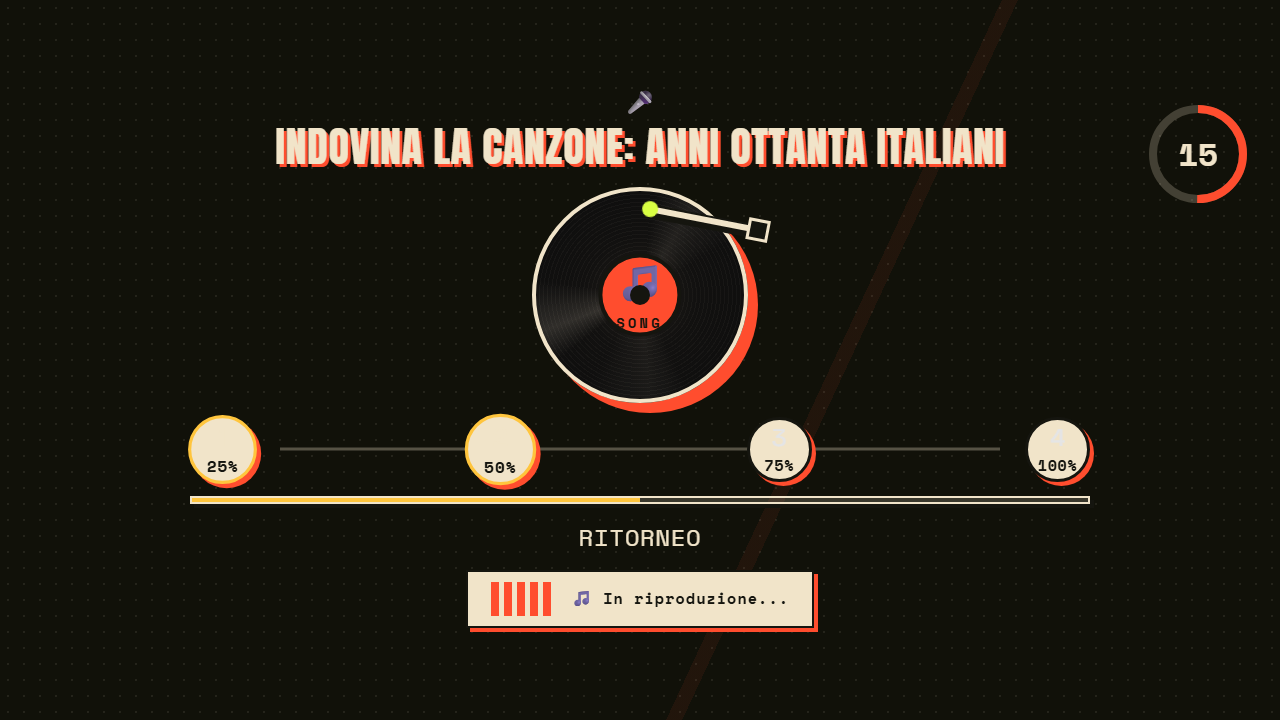
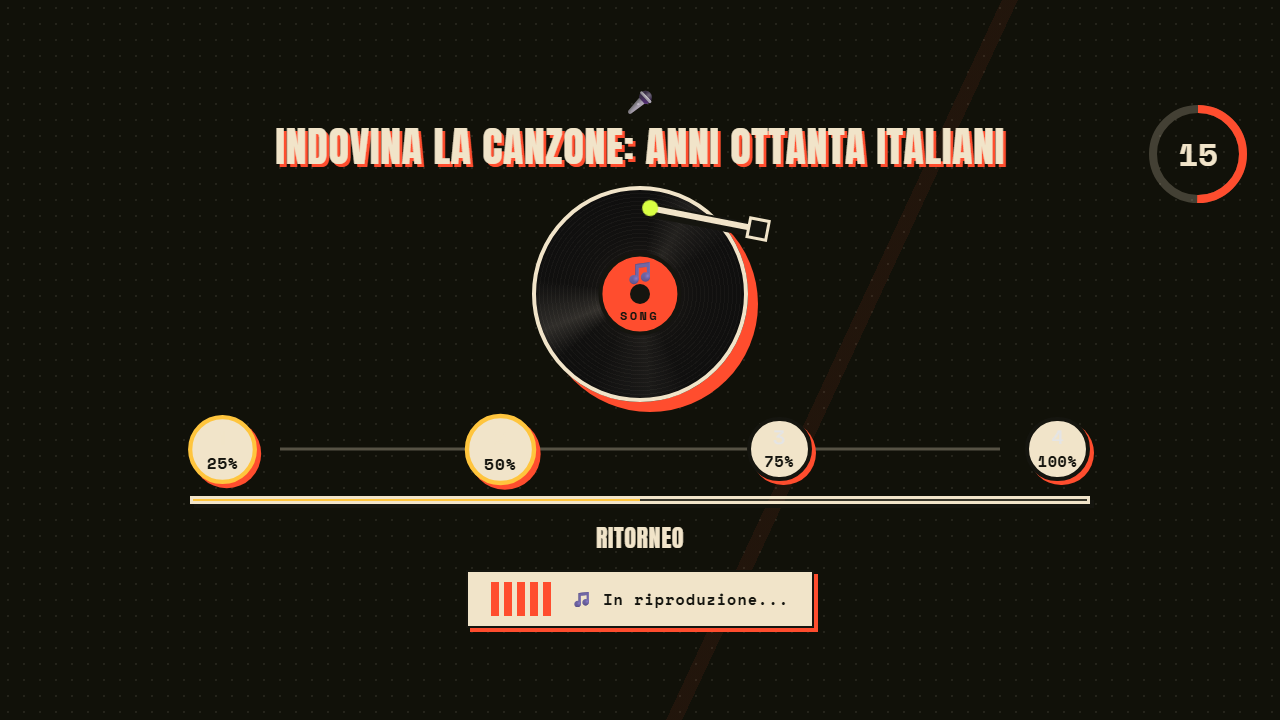
style(canzone): skin solo nel componente, avviso sul disco, etichetta libera dal perno
La skin app-song in styles.css duplicava ormai il componente: tolte le regole
(42 dichiarazioni, i ritocchi di misura e le animazioni d'ingresso), portando
nel componente le uniche parti ancora attive (contenitore alto auto con
min-height 100%, animazioni m-fade/m-drop/m-appear, misure di etichetta e
gettone, anello del timer al pomodoro). Confronto pixel a 1280x720 su play,
prenotazione, reveal e conto alla rovescia: identico, a meno delle due
correzioni volute qui sotto.
A 720p l'avviso di prenotazione si posiziona sul disco invece che sul titolo;
l'etichetta del vinile mette icona in alto e parola in basso, così il perno
centrale non copre più il testo.

🤖 Generated with Codebuff

diff --git a/apps/frontend/src/styles.css b/apps/frontend/src/styles.css
@@ -179,7 +179,6 @@ button:disabled {
 
 /* I titoli dei giochi seguono la voce poster anche nei componenti figli. */
 app-quiz h2,
-app-song h2,
 app-arena h2,
 app-timeline h2,
 app-price h2,
@@ -231,125 +230,6 @@ app-quiz .quiz-reveal .reveal-value {
   font-weight: 400;
   text-shadow: none;
   text-transform: uppercase;
-}
-
-app-song .song-container {
-  width: 100%;
-  height: auto !important;
-  min-height: 100%;
-  background: transparent !important;
-  color: var(--paper);
-}
-app-song .song-title {
-  color: var(--paper) !important;
-  font-family: var(--font-display);
-  font-weight: 400;
-  letter-spacing: 0.02em;
-  text-transform: uppercase;
-  text-shadow: 3px 3px 0 var(--tomato) !important;
-}
-app-song .music-icon { text-shadow: none; }
-app-song .vinyl-disc {
-  border: 4px solid var(--paper);
-  box-shadow: 10px 10px 0 var(--tomato), inset 0 0 80px rgba(255, 255, 255, 0.04) !important;
-}
-app-song .vinyl-label {
-  background: var(--tomato) !important;
-  box-shadow: none !important;
-}
-app-song .tonearm {
-  background: var(--paper) !important;
-  border: 2px solid var(--coal);
-  border-radius: 0 !important;
-}
-app-song .tonearm::before { background: var(--coal) !important; border-radius: 0 !important; }
-app-song .tonearm::after { background: var(--acid) !important; border-radius: 50% !important; }
-app-song .phases-track::before {
-  height: 3px !important;
-  background: color-mix(in srgb, var(--ink) 30%, transparent) !important;
-}
-app-song .phase-dot {
-  border: 3px solid var(--coal);
-  border-radius: 50% !important;
-  box-shadow: 4px 4px 0 var(--tomato) !important;
-}
-app-song .phase-icon { font-size: clamp(18px, 2vw, 28px); }
-app-song .phase-label {
-  color: var(--coal) !important;
-  font-family: var(--font-mono);
-  font-size: clamp(10px, 1.1vw, 15px);
-}
-app-song .progress-bar {
-  height: 8px !important;
-  background: color-mix(in srgb, var(--ink) 18%, transparent) !important;
-  border: 2px solid var(--paper);
-  border-radius: 0 !important;
-}
-app-song .progress-fill { border-radius: 0 !important; }
-app-song .current-phase-label {
-  color: var(--paper) !important;
-  font-family: var(--font-mono);
-  font-size: clamp(16px, 1.8vw, 24px);
-  text-shadow: none;
-}
-app-song .audio-status {
-  background: var(--paper) !important;
-  border: 2px solid var(--coal);
-  border-radius: 0 !important;
-  box-shadow: 4px 4px 0 var(--tomato);
-  backdrop-filter: none !important;
-}
-app-song .audio-status p {
-  color: var(--coal) !important;
-  font-family: var(--font-mono);
-  font-size: clamp(12px, 1.2vw, 18px);
-}
-app-song .eq-bar { background: var(--tomato) !important; }
-app-song .buzz-alert {
-  background: var(--tomato) !important;
-  border: 3px solid var(--paper);
-  border-radius: 0 !important;
-  box-shadow: 8px 8px 0 var(--coal) !important;
-}
-app-song .alert-name,
-app-song .alert-text {
-  color: var(--paper-hi) !important;
-  font-family: var(--font-mono);
-  font-size: clamp(14px, 1.5vw, 22px);
-}
-app-song .reveal-card {
-  background: var(--paper) !important;
-  color: var(--coal) !important;
-  border: 4px solid var(--coal) !important;
-  border-radius: 0 !important;
-  box-shadow: 12px 12px 0 var(--tomato) !important;
-}
-app-song .reveal-title {
-  color: var(--coal) !important;
-  font-family: var(--font-display);
-  font-weight: 400;
-  text-transform: uppercase;
-}
-app-song .reveal-artist,
-app-song .reveal-year { color: color-mix(in srgb, var(--coal) 60%, transparent) !important; font-family: var(--font-mono); }
-app-song .reveal-cover img { border-radius: 0 !important; border: 3px solid var(--coal); }
-app-song .countdown-overlay { background: color-mix(in srgb, var(--bg-0) 94%, transparent) !important; backdrop-filter: none !important; }
-app-song .countdown-number {
-  color: var(--acid) !important;
-  font-family: var(--font-display);
-  text-shadow: 6px 6px 0 var(--tomato) !important;
-}
-app-song .countdown-label { color: var(--paper) !important; font-family: var(--font-mono); }
-app-song .phase-label {
-  color: var(--coal) !important;
-  font-family: var(--font-mono) !important;
-  font-weight: 700 !important;
-  text-shadow: none !important;
-}
-app-song .timer-progress { stroke: var(--tomato) !important; }
-app-song .timer-value {
-  color: var(--paper) !important;
-  font-family: var(--font-mono);
 }
 
 /* ============================================================
@@ -765,8 +645,6 @@ app-timeline .tl-label { line-height: 1.25 !important; }
 app-price .pr-category { font-size: clamp(0.7rem, 0.82vw, 0.8rem) !important; }
 app-price .pr-source { font-size: clamp(0.68rem, 0.78vw, 0.76rem) !important; }
 app-price .pr-name { font-size: clamp(1.1rem, 1.9vw, 1.75rem) !important; }
-app-song .phase-label { font-size: clamp(12px, 1.15vw, 16px) !important; }
-app-song .current-phase-label { font-size: clamp(18px, 1.9vw, 26px) !important; }
 
 @media (prefers-reduced-motion: reduce) {
   *, *::before, *::after {
@@ -1013,13 +891,6 @@ app-remote-component .tennis-card { animation: m-rise var(--motion-base) var(--e
    sua animazione (disco, equalizzatore, timer, buzz) qui si
    tocca solo l'opacità, così le due cose convivono.
    ============================================================ */
-app-song .song-container { animation: m-fade var(--motion-base) var(--ease-out) backwards; }
-app-song .song-title { animation: m-drop var(--motion-cinema) var(--ease-out) backwards; }
-app-song .phase-dot { animation: m-appear var(--motion-base) var(--ease-out) backwards; }
-app-song .phase-dot:nth-child(1) { animation-delay: 60ms; }
-app-song .phase-dot:nth-child(2) { animation-delay: 130ms; }
-app-song .phase-dot:nth-child(3) { animation-delay: 200ms; }
-app-song .current-phase-label { animation: m-fade var(--motion-fast) var(--ease-out) backwards; }
 
 app-image-blur .blur-title{ animation: m-drop var(--motion-cinema) var(--ease-out) backwards; }
 app-image-blur .blur-main-container { animation: m-zoom-in var(--motion-cinema) var(--ease-out) backwards; }

diff --git a/apps/frontend/src/app/features/games/song/song.component.css b/apps/frontend/src/app/features/games/song/song.component.css
@@ -9,7 +9,8 @@
 
 .song-container {
   width: 100%;
-  height: 100%;
+  height: auto;
+  min-height: 100%;
   box-sizing: border-box;
   background: transparent;
   color: var(--paper);
@@ -269,14 +270,23 @@
 }
 
 
+/* Icona in alto, parola in basso: il perno centrale resta libero, invece di
+   coprire il testo. */
 .label-content {
+  display: flex;
+  flex-direction: column;
+  align-items: center;
+  justify-content: space-between;
+  height: 100%;
+  box-sizing: border-box;
+  padding: 9% 0;
   text-align: center;
   color: var(--coal, #1e1914);
 }
 
 .label-icon {
   font-size: clamp(28px, 5vmin, 56px);
-  margin-bottom: 6px;
+  line-height: 1;
 }
 
 .label-text {
@@ -402,7 +412,7 @@
   position: relative;
   z-index: 1;
   transition: transform 0.25s var(--ease-out), background-color 0.25s var(--ease-out);
-  box-shadow: 6px 6px 0 var(--tomato);
+  box-shadow: 4px 4px 0 var(--tomato);
 }
 
 .phase-dot.active { transform: scale(1.06); }
@@ -419,18 +429,17 @@
 
 .phase-label {
   font-family: var(--font-mono);
-  font-size: clamp(14px, 1.7vmin, 19px);
+  font-size: clamp(12px, 1.15vw, 16px);
   font-weight: 700;
   color: var(--coal);
   letter-spacing: 0.06em;
 }
 
-/* Barra delle fasi: carta rigata, riempimento a strisce d'inchiostro. */
+/* Barra delle fasi: sottile, carta su inchiostro, ombra piena. */
 .progress-bar {
   width: 100%;
-  height: clamp(18px, 2.3vh, 26px);
-  background: var(--paper);
-  background-image: repeating-linear-gradient(135deg, color-mix(in srgb, var(--coal) 14%, transparent) 0 8px, transparent 8px 16px);
+  height: 8px;
+  background: color-mix(in srgb, var(--ink) 18%, transparent);
   border: 3px solid var(--paper);
   border-radius: 0;
   box-shadow: 4px 4px 0 var(--coal);
@@ -448,7 +457,7 @@
 .current-phase-label {
   text-align: center;
   font-family: var(--font-display);
-  font-size: clamp(22px, 3.6vh, 34px);
+  font-size: clamp(18px, 1.9vw, 26px);
   font-weight: 400;
   color: var(--paper);
   margin-top: 10px;
@@ -579,6 +588,7 @@
   font-weight: 400;
   color: var(--coal);
   line-height: 1;
+  letter-spacing: 0.02em;
   margin: 0;
   text-transform: uppercase;
 }
@@ -625,7 +635,7 @@
 
 .timer-progress {
   fill: none;
-  stroke: var(--paper-hi);
+  stroke: var(--tomato);
   stroke-width: 8;
   stroke-dasharray: 283;
   stroke-dashoffset: 0;
@@ -634,8 +644,7 @@
   transition: stroke-dashoffset 1s linear, stroke 0.3s;
 }
 
-/* Tempo agli sgoccioli: anello al pomodoro, nessuna pulsazione. */
-.timer-circle.warning .timer-progress { stroke: var(--tomato); }
+/* L'anello è già al pomodoro: il warning non cambia colore, solo il numero. */
 
 .timer-value {
   position: absolute;
@@ -710,6 +719,15 @@
 .waiting-text strong { font-family: var(--font-display); font-size: 1rem; letter-spacing: .04em; }
 .waiting-text span { font-family: var(--font-mono); font-size: .66rem; }
 
+/* Entrata: stesso movimento degli altri tabelloni, dichiarato qui accanto alla skin. */
+.song-container { animation: m-fade var(--motion-base) var(--ease-out) backwards; }
+.song-title { animation: m-drop var(--motion-cinema) var(--ease-out) backwards; }
+.phase-dot { animation: m-appear var(--motion-base) var(--ease-out) backwards; }
+.phase-dot:nth-child(1) { animation-delay: 60ms; }
+.phase-dot:nth-child(2) { animation-delay: 130ms; }
+.phase-dot:nth-child(3) { animation-delay: 200ms; }
+.current-phase-label { animation: m-fade var(--motion-fast) var(--ease-out) backwards; }
+
 /* Schermi bassi (720p): il disco si stringe e il blocco «in riproduzione»
    resta in scena, invece di finire sotto la piega. */
 @media (max-height: 820px) {
@@ -719,9 +737,16 @@
   .vinyl-stage { width: min(30vh, 220px); height: min(30vh, 220px); margin: clamp(4px, 1vh, 10px) 0; }
   .phase-dot { width: clamp(56px, 9vmin, 72px); height: clamp(56px, 9vmin, 72px); }
   .phase-icon { font-size: clamp(18px, 2.8vmin, 26px); }
-  .phase-label { font-size: clamp(11px, 1.4vmin, 14px); }
   .phases-indicator { margin: clamp(4px, 1vh, 12px) 0; }
   .audio-status { margin: clamp(4px, 1vh, 12px) 0; padding: clamp(8px, 1.4vh, 16px) clamp(14px, 1.8vw, 26px); }
   .equalizer { height: 34px; }
   .eq-bar { height: 34px; }
+  /* L'avviso scende sul disco: prima copriva il titolo. */
+  .buzz-alert { top: 33%; padding: 14px 28px; gap: 14px; }
+  .alert-icon { font-size: 34px; }
+  .alert-name { font-size: clamp(15px, 1.6vw, 19px); }
+  .alert-text { font-size: clamp(11px, 1.3vw, 15px); }
+  /* Etichetta più piccola: icona e parola stanno fuori dal perno. */
+  .label-icon { font-size: 22px; }
+  .label-text { font-size: 12px; }
 }

diff --git a/apps/frontend/src/app/features/games/song/song.component.html b/apps/frontend/src/app/features/games/song/song.component.html
@@ -88,7 +88,7 @@
            [style.background]="getPhaseColor()"></div>
     </div>
 
-    <div class="current-phase-label" [style.color]="getPhaseColor()">
+    <div class="current-phase-label">
       {{ getPhaseLabel() }}
     </div>
   </div>
